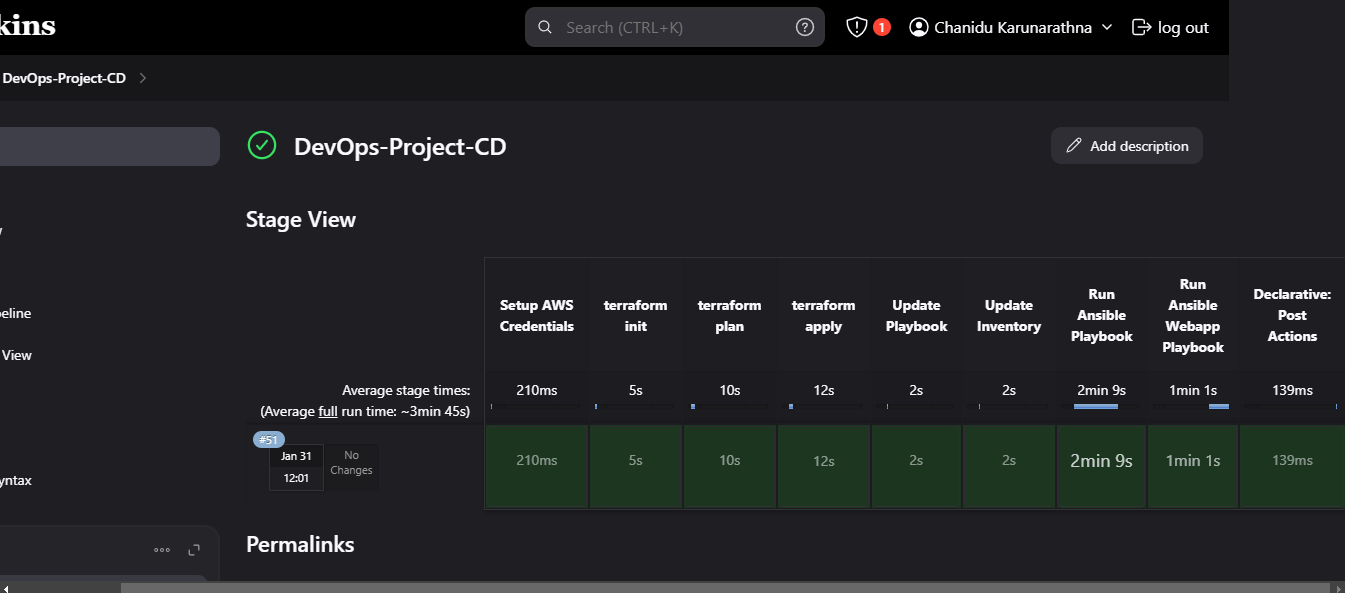
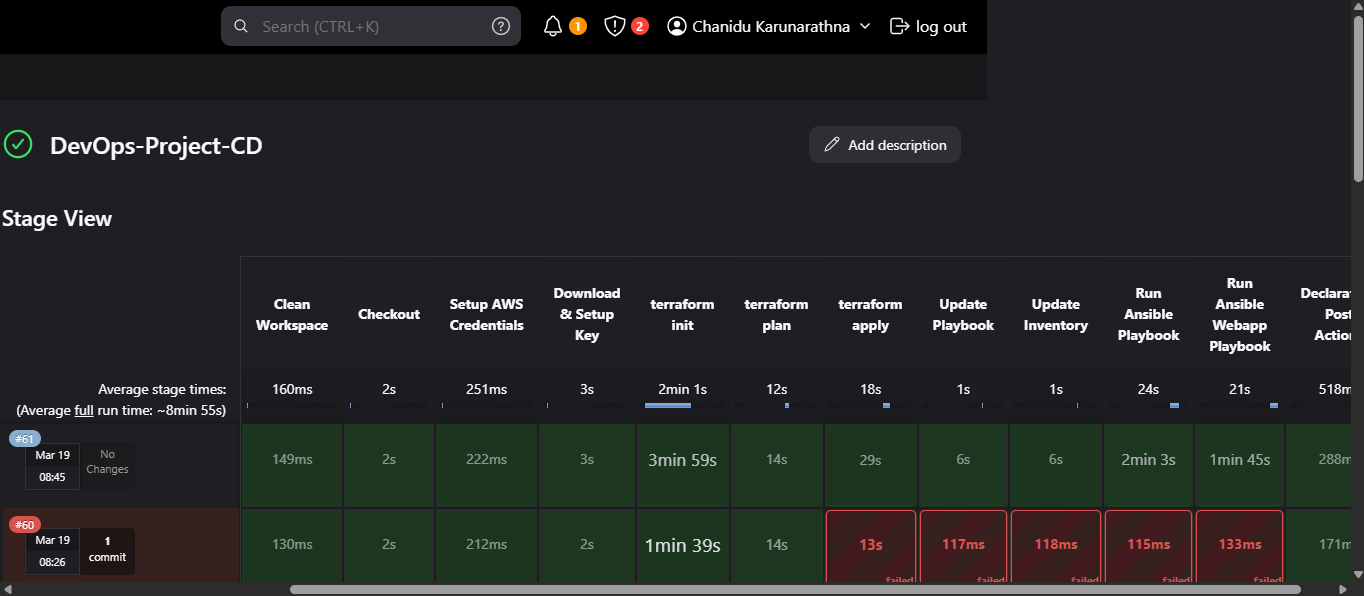
add secure configs for CD

diff --git a/README.md b/README.md
@@ -37,6 +37,9 @@ This project demonstrates robust Continuous Integration (CI) and Continuous Deli
 
 | Stage | Description |
 |-------|-------------|
+| 🧹 **Clean Workspace** | Remove previous build artifacts to ensure a fresh deployment |
+| 🔄 **Git Checkout Configs** | Fetch the latest configuration files from the repository |
+| 🔑 **Retrieve PEM File from S3** | Securely fetch the private key for SSH access to instances |
 | 🔐 **Setup AWS Credentials** | Secure access configuration for AWS services |
 | 🌱 **Terraform Init** | Initialization of infrastructure as code environment |
 | 📋 **Terraform Plan** | Resource allocation planning and validation |
@@ -48,9 +51,11 @@ This project demonstrates robust Continuous Integration (CI) and Continuous Deli
 | 📢 **Post Actions** | Notification and validation of deployment success |
 
 ### CD Pipeline Key Highlights
+- **Secure Access for secret files** : Ensures sensitive pemfile are securely stored and retrieved from AWS S3
 - **Infrastructure as Code (IaC)**: Utilizes Terraform for resource provisioning.
+- **Terraform State Management and Locking** : Used AWS S3 bucket and AWS DynamoDb table
 - **Configuration Management**: Automates configuration using Ansible playbooks.
-- **AWS Integration**: Seamlessly deploys to AWS cloud environments.
+- **AWS Integration**: Seamlessly deploys to AWS cloud environment.
 
 ---
 
@@ -78,6 +83,12 @@ This project demonstrates robust Continuous Integration (CI) and Continuous Deli
 
 ### Sonarqube Analysis View
 ![CD Pipeline](https://raw.githubusercontent.com/Chanidu26/DevOps-Project/refs/heads/main/figures/CodeQuality.png)
+
+### AWS S3 Buckets
+![S3 Buckets](https://raw.githubusercontent.com/Chanidu26/DevOps-Project/refs/heads/main/figures/S3-Buckets.png)
+
+### AWS DynamoDb Table
+![DynamoDb Table](https://raw.githubusercontent.com/Chanidu26/DevOps-Project/refs/heads/main/figures/DynamoDb-Table.png)
 
 ---
 
